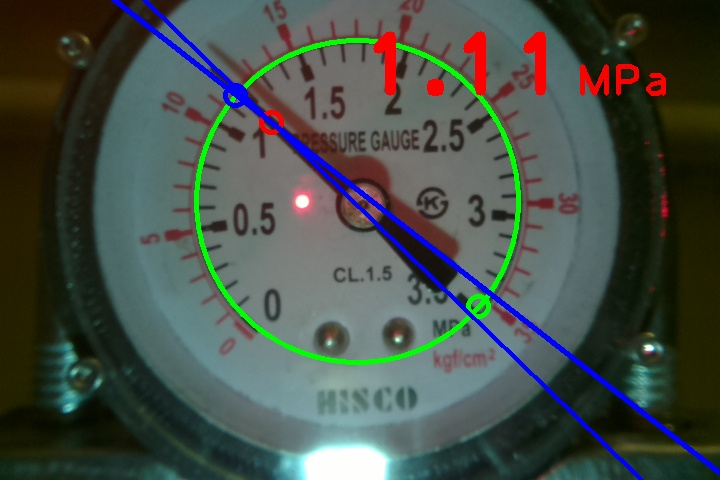
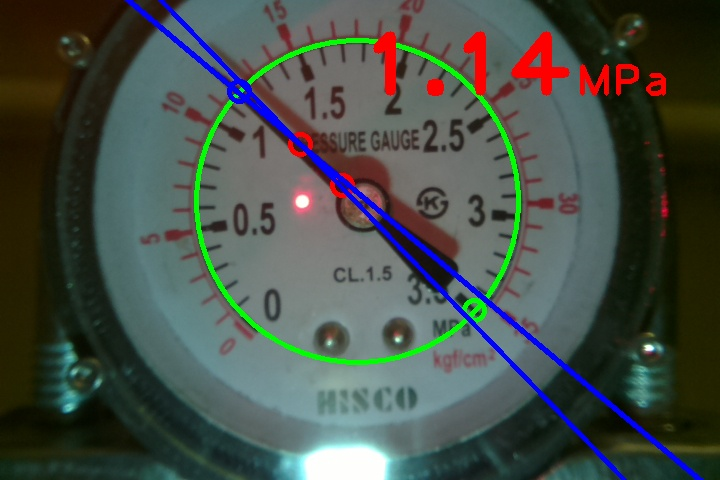
modified shell scripts

Changed region(s): [[0.1528, 0.0, 1.0, 1.0], [0.7028, 0.0625, 0.7944, 0.2188]]

diff --git a/gauge_det.py b/gauge_det.py
@@ -19,6 +19,14 @@ except ImportError:
     "picamera.array not found"
 
 
+def error_output(img,err_msg="ERROR", height=480, width=720):
+    font_size = (height / 100)
+    value_position = (int(width*0.1), int(height*0.5))
+    cv2.putText(img, err_msg, value_position,
+                cv2.FONT_HERSHEY_PLAIN,
+                fontScale=font_size, color=DEF.RED, thickness=10)
+    cv2.imwrite("canvas.jpg", img)
+
 def make_line(point_tuple):
     p1 = point_tuple[0]
     p2 = point_tuple[1]
@@ -54,6 +62,7 @@ def rad_to_degrees(radians):
 
 
 def get_angles(angle_vals):
+    possible_angles = []
     for i in range(len(angle_vals)):
         cur_angle = angle_vals[i]
         for j in range(len(angle_vals)):
@@ -62,7 +71,8 @@ def get_angles(angle_vals):
             angle_diff = abs(cur_angle - angle_vals[j])
             print i, j, angle_diff
             if (angle_diff > (DEF.NEEDLE_SHAPE - 0.5)) and (angle_diff < (DEF.NEEDLE_SHAPE + 0.5)):
-                return (i, j)
+                possible_angles.append((i, j))
+    return possible_angles
 
 def preprocess_img(prep,do_blur=0, do_threshold=1):
     # preprocessing image:
@@ -74,7 +84,7 @@ def preprocess_img(prep,do_blur=0, do_threshold=1):
         # the element chosen here is a 3px by 3px rectangle
         prep = cv2.equalizeHist(prep)
         # prep = cv2.adaptiveThreshold(prep, 255, cv2.ADAPTIVE_THRESH_MEAN_C, cv2.THRESH_BINARY_INV, 25, 5)
-        prep = cv2.threshold(prep, 70, 255, cv2.THRESH_BINARY_INV)[1]
+        prep = cv2.threshold(prep, 65, 255, cv2.THRESH_BINARY_INV)[1]
         #prep = erode_n_dilate(prep)
         #prep = cv2.adaptiveThreshold(prep, 255, cv2.ADAPTIVE_THRESH_MEAN_C, cv2.THRESH_BINARY_INV, 25, 3)
         # prep = cv2.Canny(prep, 20, 60)
@@ -120,6 +130,8 @@ def find_contour(this_object, img, draw=False):
 class Gauge:
     x = 0  # these will hold the coordinates of the object "centers". see moments of inertia
     y = 0
+    angles_in_radians = []
+    angles_in_degrees = []
 
     def __init__(self, name="null"):
         self.type = "Object"
@@ -205,6 +217,7 @@ class OS:
         return ""
 
 window_name = 'gauge'
+
 def main():
     # parameters
     draw = True
@@ -222,6 +235,7 @@ def main():
     canvas = np.zeros_like(im)  # output image
     np.copyto(canvas, im)
     blank = np.zeros_like(im)
+    error_screen = np.zeros_like(im)
     height, width = gray_im.shape
     assert height == 480
     assert width == 720
@@ -236,15 +250,7 @@ def main():
         cv2.waitKey(0)
         sys.exit("terminating early")
 
-    err_msg = "ERROR"
-    font_size = (height / 80)
-    hor_offset = font_size * 12 * sum(c.isdigit() for c in err_msg)
-    ver_offset = 0
-    value_position = (int(width*0.3), int(height*0.5))
-    cv2.putText(blank, err_msg, value_position,
-                cv2.FONT_HERSHEY_PLAIN,
-                fontScale=font_size, color=DEF.RED, thickness=10)
-    cv2.imwrite("canvas.jpg", blank)
+    #error_output(blank)
 
     # Hough transforms (circles, lines, plines)
     if hough_circle:
@@ -253,7 +259,9 @@ def main():
         circles = \
             cv2.HoughCircles(gray_im, cv2.HOUGH_GRADIENT, 2, 10, None, param1=50, param2=30, minRadius=120,
                              maxRadius=180, )[0]
-        assert(circles is not None)
+        if circles is None:
+            error_output(error_screen, err_msg="no circles found")
+            sys.exit("no circles found")
         # use only gauge image that is inside the first circle found
         for c in circles[:1]:
             # scale factor makes applicable area slightly larger just to be safe we are not missing anything
@@ -281,12 +289,12 @@ def main():
 
     print "radius: ", radius
     print "width: ", width
-    angles_in_radians = []
-    angles_in_degrees = []
+
     if lines is None:
+        error_output(error_screen, err_msg="no lines found")
         sys.exit("there are no lines inside the cicle")  # if no lines are found terminate the program here
     else:
-        for line in lines[:5]:
+        for line in lines[:6]:
             for (rho, theta) in line:
                 # blue for infinite lines (only draw the 2 strongest)
                 x0 = np.cos(theta) * rho
@@ -294,64 +302,81 @@ def main():
                 pt1 = (int(x0 + (height + width) * (-np.sin(theta))), int(y0 + (height + width) * np.cos(theta)))
                 pt2 = (int(x0 - (height + width) * (-np.sin(theta))), int(y0 - (height + width) * np.cos(theta)))
                 gauge.lines.append((pt1, pt2))
-                angles_in_radians.append(theta)
-                angles_in_degrees.append(rad_to_degrees(theta))
+                gauge.angles_in_radians.append(theta)
+                gauge.angles_in_degrees.append(rad_to_degrees(theta))
                 cv2.line(prep,pt1,pt2, (255, 0, 0), DEF.THICKNESS)
+    number_of_angles = len(gauge.angles_in_degrees)
+    angle_index = get_angles(gauge.angles_in_degrees)
+    angle_set = set(tuple(sorted(l)) for l in angle_index)
+    print "lengh: ", len(angle_index)
+    print
+    if len(gauge.lines) < 2:
+        error_output(error_screen, err_msg="unable to find needle form lines")
+        sys.exit("unable to find needle form lines")
 
-    number_of_angles = len(angles_in_degrees)
-    angle_index = get_angles(angles_in_degrees)
+    line_found = False
+    for this_pair in angle_index:
+        print "angle1: ", gauge.angles_in_degrees[this_pair[0]]
+        print "angle2: ", gauge.angles_in_degrees[this_pair[1]]
 
-    assert (len(gauge.lines) >= 2)
+        line1 = make_line(gauge.lines[this_pair[0]])
+        line2 = make_line(gauge.lines[this_pair[1]])
+        intersecting_pt = intersection(line1, line2)
+        if intersecting_pt is not None:
+            print "Intersection detected:", intersecting_pt
+            cv2.circle(canvas, intersecting_pt, 10, DEF.RED, 3)
+        else:
+            print "No single intersection point detected"
 
-    print "angle1: ", angles_in_degrees[angle_index[0]]
-    print "angle2: ", angles_in_degrees[angle_index[1]]
+        # Although we found a line coincident with the gauge needle,
+        # we need to find which of the two direction it is pointing
+        # guess1 and guess2 are 180 degrees apart
+        avg_theta = (gauge.angles_in_radians[this_pair[0]] + gauge.angles_in_radians[this_pair[1]]) / 2
+        guess1 = [avg_theta, (0, 0)]
+        guess2 = [avg_theta + np.pi, (0, 0)]
+        if guess2[0] > 2 * np.pi:   # in case adding pi made it greater than 2pi
+            guess2[0] -= 2 * np.pi
+        print "guess1: ", guess1[0]
+        print "guess2: ", guess2[0]
+        guess1[1] = (int(circle_x + radius * np.sin(guess1[0])), int(circle_y - radius * np.cos(guess1[0])))
+        guess2[1] = (int(circle_x + radius * np.sin(guess2[0])), int(circle_y - radius * np.cos(guess2[0])))
+        # find the distance between our guess and intersection of gauge needle lines
+        # the guess that is closer to the intersection is the correct one
+        dist1 = math.hypot(intersecting_pt[0] - guess1[1][0], intersecting_pt[1] - guess1[1][1])
+        dist2 = math.hypot(intersecting_pt[0] - guess2[1][0], intersecting_pt[1] - guess2[1][1])
+        print "dist1: ", dist1
+        print "dist2: ", dist2
+        if dist1 < DEF.MAX_DISTANCE or dist2 < DEF.MAX_DISTANCE:
+            line_found = True
+            if dist1 < dist2:
+                correct_guess = guess1
+            else:
+                correct_guess = guess2
 
-    avg_theta = (angles_in_radians[angle_index[0]] + angles_in_radians[angle_index[1]]) / 2
-    intersecting_pt = intersection(make_line(gauge.lines[angle_index[0]]), make_line(gauge.lines[angle_index[1]]))
-    if intersecting_pt is not None:
-        print "Intersection detected:", intersecting_pt
-        cv2.circle(canvas, intersecting_pt, 10, DEF.RED, 3)
+        if line_found is True:
+            cv2.circle(canvas, guess1[1], 10, DEF.GREEN, 3)
+            cv2.circle(canvas, guess2[1], 10, DEF.BLUE, 3)
+            cv2.line(canvas, gauge.lines[this_pair[0]][0], gauge.lines[this_pair[0]][1], (255, 0, 0),
+            DEF.THICKNESS)
+            cv2.line(canvas, gauge.lines[this_pair[1]][0], gauge.lines[this_pair[1]][1], (255, 0, 0),
+            DEF.THICKNESS)
+            break
+
+    if line_found is False:
+        error_output(error_screen, err_msg="no positive pair")
+        needle_angle = 0.0
     else:
-        print "No single intersection point detected"
-
-    # Although we found a line coincident with the gauge needle,
-    # we need to find which of the two direction it is pointing
-    # guess1 and guess2 are 180 degrees apart
-    guess1 = [avg_theta, (0, 0)]
-    guess2 = [avg_theta + np.pi, (0, 0)]
-    if guess2[0] > 2 * np.pi:   # in case adding pi made it greater than 2pi
-        guess2[0] -= 2 * np.pi
-    print "guess1: ", guess1[0]
-    print "guess2: ", guess2[0]
-    guess1[1] = (int(circle_x + radius * np.sin(guess1[0])), int(circle_y - radius * np.cos(guess1[0])))
-    guess2[1] = (int(circle_x + radius * np.sin(guess2[0])), int(circle_y - radius * np.cos(guess2[0])))
-    cv2.circle(canvas, guess1[1], 10, DEF.GREEN, 3)
-    cv2.circle(canvas, guess2[1], 10, DEF.BLUE, 3)
-    # find the distance between our guess and intersection of gauge needle lines
-    # the guess that is closer to the intersection is the correct one
-    dist1 = math.hypot(intersecting_pt[0] - guess1[1][0], intersecting_pt[1] - guess1[1][1])
-    dist2 = math.hypot(intersecting_pt[0] - guess2[1][0], intersecting_pt[1] - guess2[1][1])
-    print "dist1: ", dist1
-    print "dist2: ", dist2
-    if dist1 < dist2:
-        needle_angle = rad_to_degrees(guess1[0]-np.pi)
-    else:
-        needle_angle = rad_to_degrees(guess2[0]-np.pi)
-    if needle_angle >= 360.0:
-        needle_angle -= 360.0
-    elif needle_angle <= 0.0:
-        needle_angle += 360.0
-
+        ref_offset = np.pi
+        needle_angle = rad_to_degrees(correct_guess[0]-ref_offset)
+    print "correct angle(cv2)= ", needle_angle
+    if needle_angle < 0.0:
+        needle_angle += 360
     print "needle_angle: ", needle_angle
     pressure = np.interp(needle_angle, [DEF.GAUGE_MIN['angle'], DEF.GAUGE_MAX['angle']],
                          [DEF.GAUGE_MIN['pressure'], DEF.GAUGE_MAX['pressure']])
     print "pressure = ", pressure
     prep = cv2.bitwise_and(prep, mask)
 
-    cv2.line(canvas, gauge.lines[angle_index[0]][0], gauge.lines[angle_index[0]][1], (255, 0, 0),
-             DEF.THICKNESS)
-    cv2.line(canvas, gauge.lines[angle_index[1]][0], gauge.lines[angle_index[1]][1], (255, 0, 0),
-             DEF.THICKNESS)
     display_value = str(round(pressure, 2))
     display_unit = "MPa"
     font_size = (height / 80)
@@ -375,6 +400,7 @@ def main():
     # pass in tuples ("filename.ext", img_to_write)
     host.write_image(("prep.jpg", prep), ("canvas.jpg", canvas))
     host.show_image(canvas)
+    #time.sleep(3)
 
     return True
 if __name__ == "__main__":

diff --git a/defines.py b/defines.py
@@ -12,3 +12,5 @@ GAUGE_MIN = {'pressure':0.0, 'angle':45.0}
 GAUGE_MAX = {'pressure':3.5, 'angle':315.0}
 NEEDLE_SHAPE = 6.0
 THICKNESS = 4
+WIDTH = 720
+MAX_DISTANCE = 100
